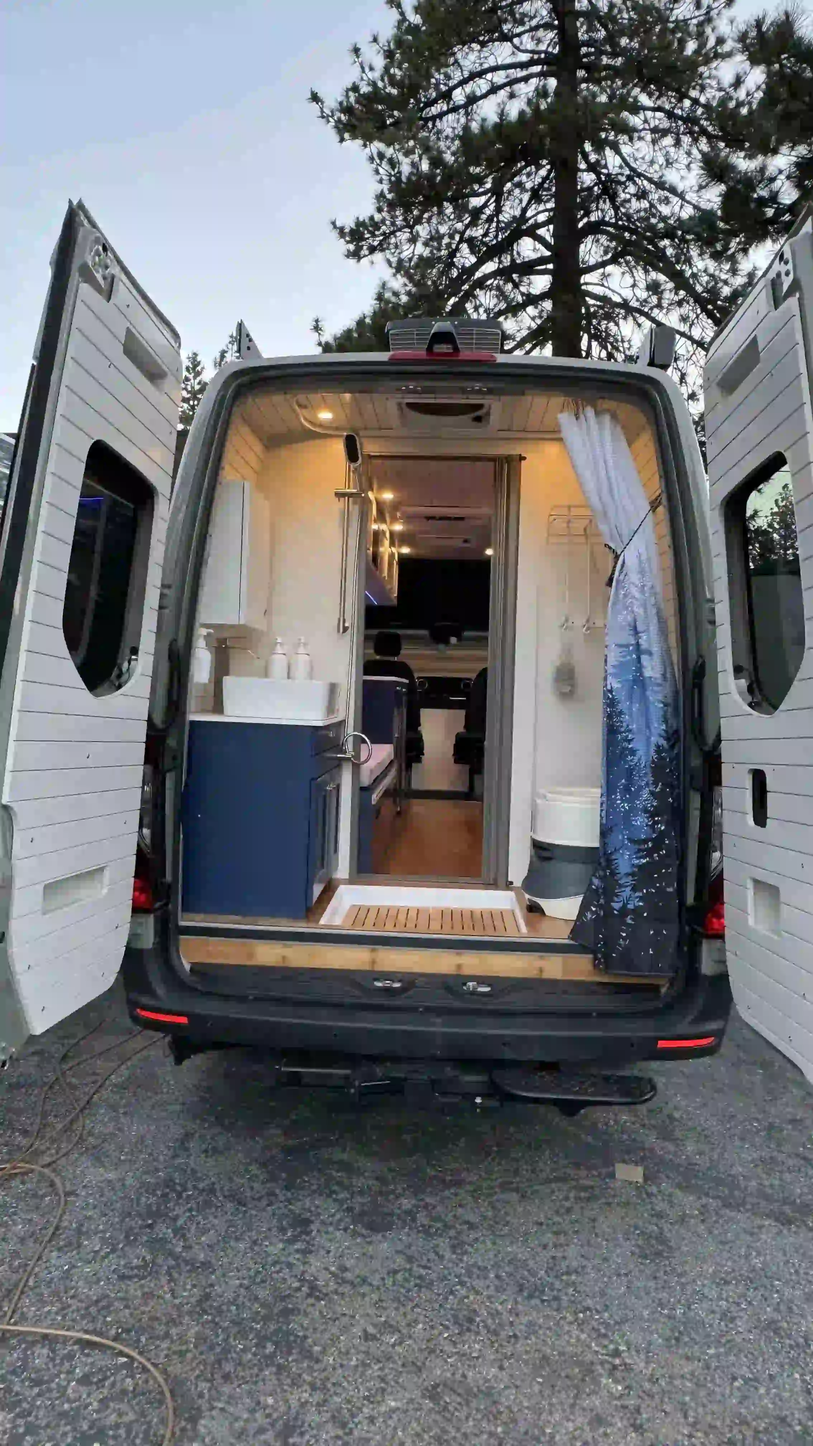
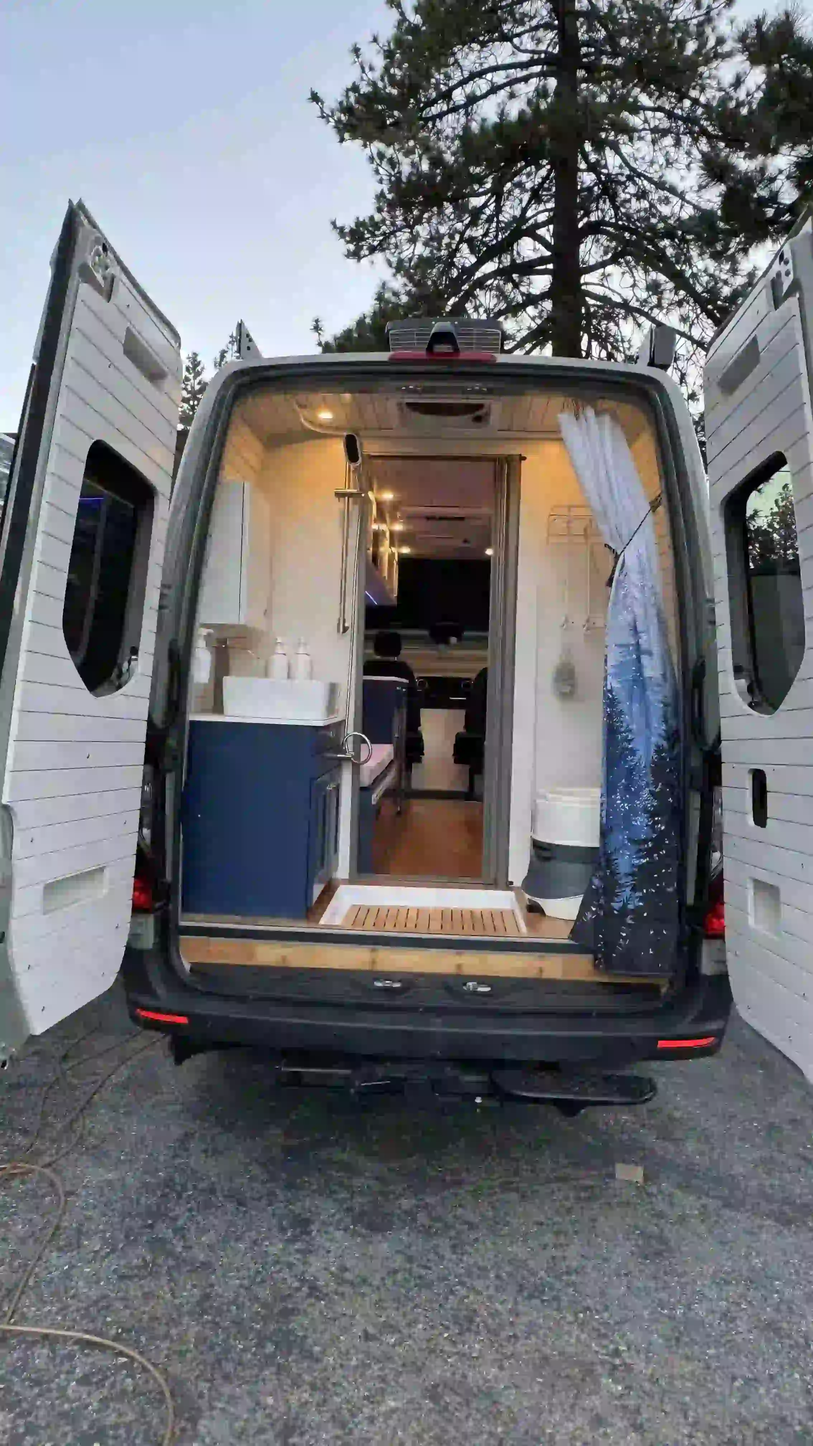
more compress

diff --git a/frontend/src/websiteComponents/components/HomePage/Hero/Hero.jsx b/frontend/src/websiteComponents/components/HomePage/Hero/Hero.jsx
@@ -94,7 +94,7 @@ export default function Hero() {
           style={{ contain: 'layout style' }}
         >
           <div className="max-w-4xl text-center space-y-4 animated-content -mt-4 md:mt-0 pointer-events-auto">
-            <Heading1 text="Custom Camper Vans.." />
+            <Heading1 text="Custom Camper Vans" />
             <Paragraph text="Buy, customize, or try the 3D configurator from Big Bear Vans today." />
             <div className="flex flex-row gap-4 justify-center items-center pt-4 mobile-button-position">
               <BlackButton label="Order Custom Build" link="/inquiry" />

diff --git a/frontend/src/websiteComponents/components/HomePage/Portfolio/Portfolio.jsx b/frontend/src/websiteComponents/components/HomePage/Portfolio/Portfolio.jsx
@@ -7,7 +7,7 @@ import RichParagraph from "../../Common/Paragraph/RichParagraph";
 
 const images = [
   { id: 1, src: "/images/p1.webp", alt: "Spacious custom van interior" },
-  { id: 2, src: "/images/p2.webp", alt: "Overhead view of kitchen" },
+  { id: 2, src: "/images/p2.jpg", alt: "Overhead view of kitchen" },
   { id: 3, src: "/images/p3.webp", alt: "Compact kitchenette" },
   { id: 4, src: "/images/p4.webp", alt: "Sleeping nook" },
   { id: 5, src: "/images/p5.webp", alt: "Storage solutions" },
